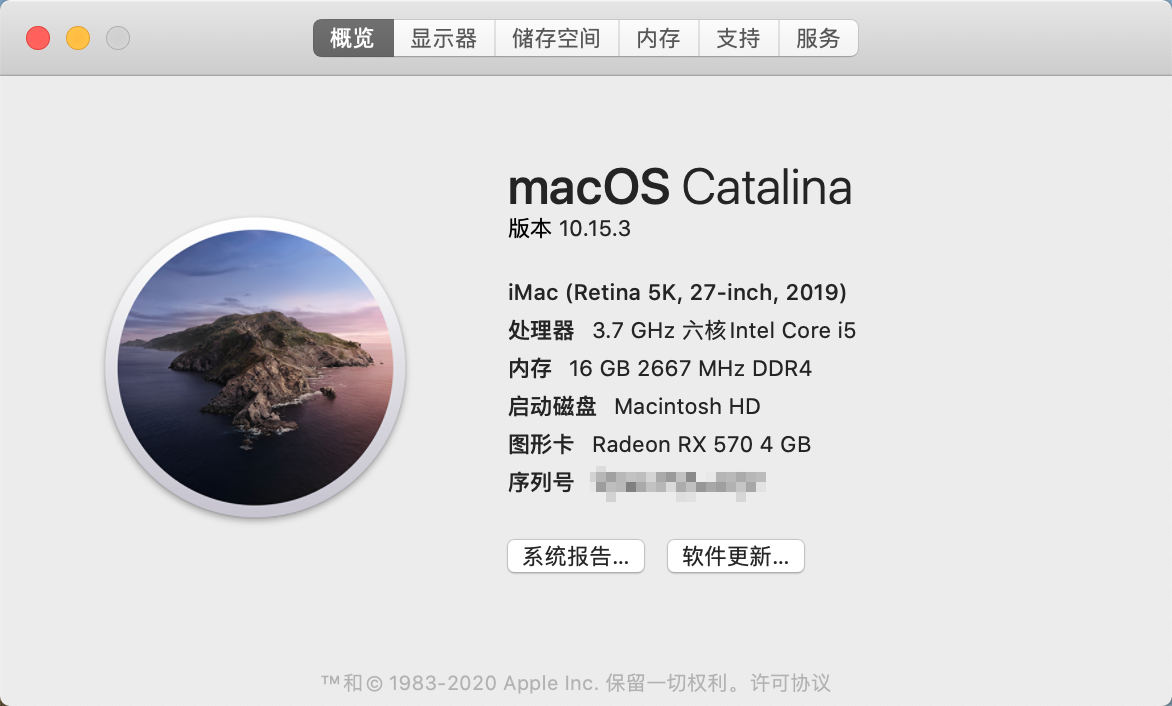
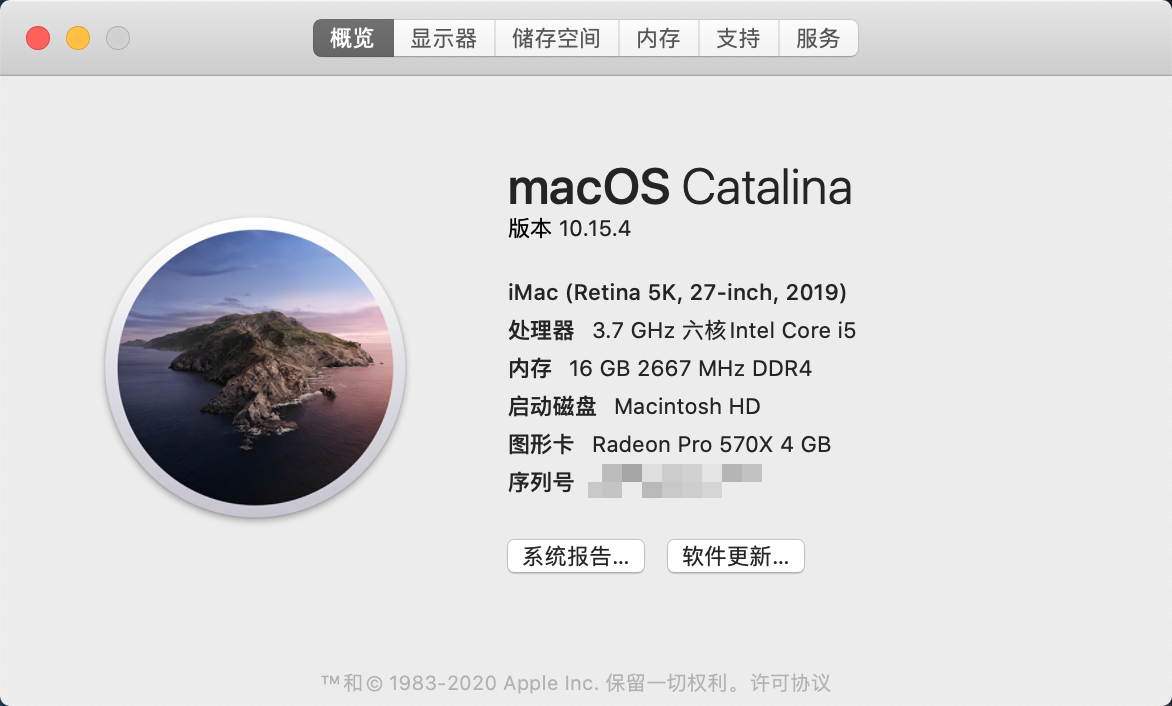
update 10.15.4

diff --git a/README.md b/README.md
@@ -201,7 +201,11 @@ OC(Overclocking)\CPU 特征\CFG锁定 [禁止]*（必须）*<br>
 5. **NVMe 硬盘温度过高怎么办？**<br>
    一般来说读写速度越快的硬盘温度往往越高，无需太过担心，但待机情况下超过 50℃ 或你认为硬盘的温度不正常，可尝试加载 [NVMeFix](https://github.com/acidanthera/NVMeFix/releases) 解决。<br>
    将 NVMeFix.kext 放入`/EFI/OC/Kexts/`目录，打开`/EFI/OC/config.plist`，在 Kernel > Add 处添加 NVMeFix.kext（参考其他 kext 的添加方式）。
-6. **待更新**
+6. **可以观看 Apple TV+ / Netflix 等 DRM 媒体吗？**<br>
+   得益于 WhateverGreen 的功能，添加 shikigva=80 参数后，拥有独立显卡的机器都可以直接使用 tv 应用，并观看 Apple TV+，也支持 Safari 硬解观看 Netflix / Amazon Prime 等流媒体。<br>
+   macOS 10.15.4 之前版本，RX 4XX/500 大部分显卡不可使用 Safari 硬解 DRM（表现为冻屏），但这一问题在 10.15.4 中已经被修复，直接升级系统即可。<br>
+   *注意：因为缺少 Apple Firmware，导致 iGPU 无法硬解 DRM，所以没有独显的机器无法观看 DRM 媒体。*
+7. **待更新**
 
 ## 结语
 完成以上步骤后，基本上已经有了一个完成度为 99% 的黑苹果设备，更多截图请查看 [截图预览](https://github.com/GeQ1an/MSI-B360M-MORTAR-HACKINTOSH-OPENCORE-EFI/tree/master/Images/Preview.md) 。<br>

diff --git a/Images/Preview.md b/Images/Preview.md
@@ -1,5 +1,5 @@
 ## 截图预览
-系统版本：macOS Catalina 10.15.3，OpenCare 版本：0.5.6，EFI 更新日期：2020.03.03
+系统版本：macOS Catalina 10.15.4，OpenCare 版本：0.5.6，EFI 更新日期：2020.03.03
 
 ### 关于本机
 ![](https://raw.githubusercontent.com/GeQ1an/MSI-B360M-MORTAR-HACKINTOSH-OPENCORE-EFI/master/Images/Screenshots/About.png)
